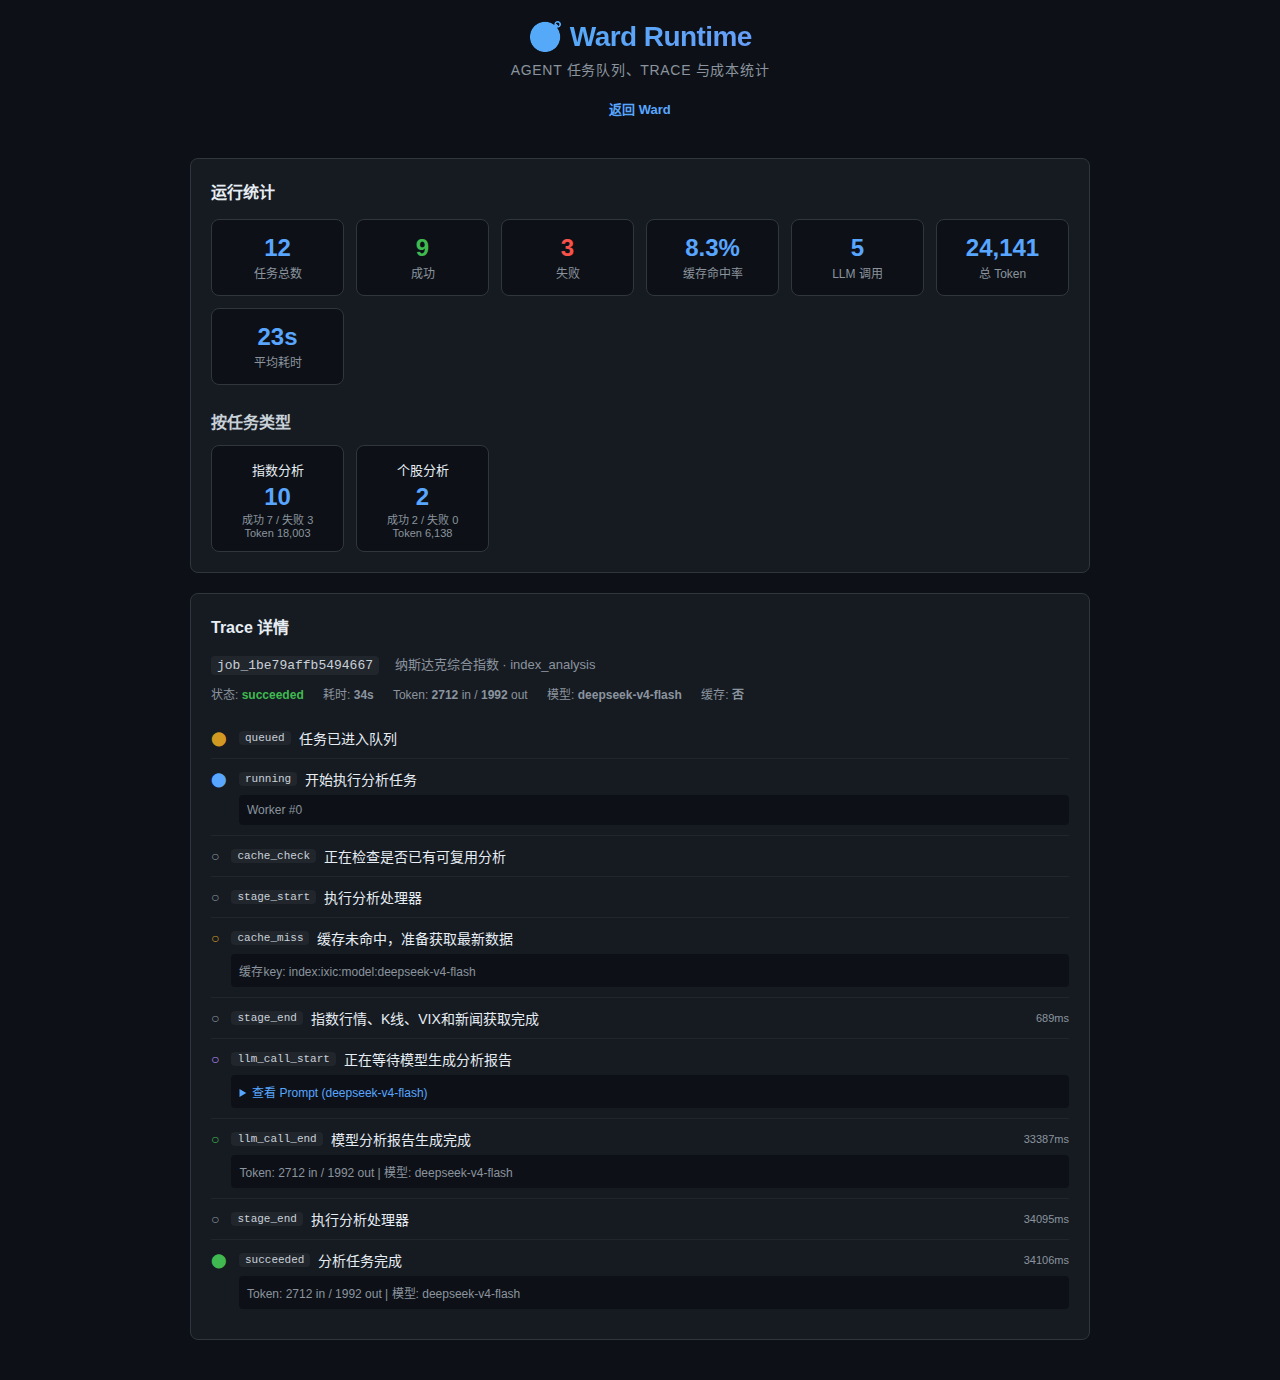
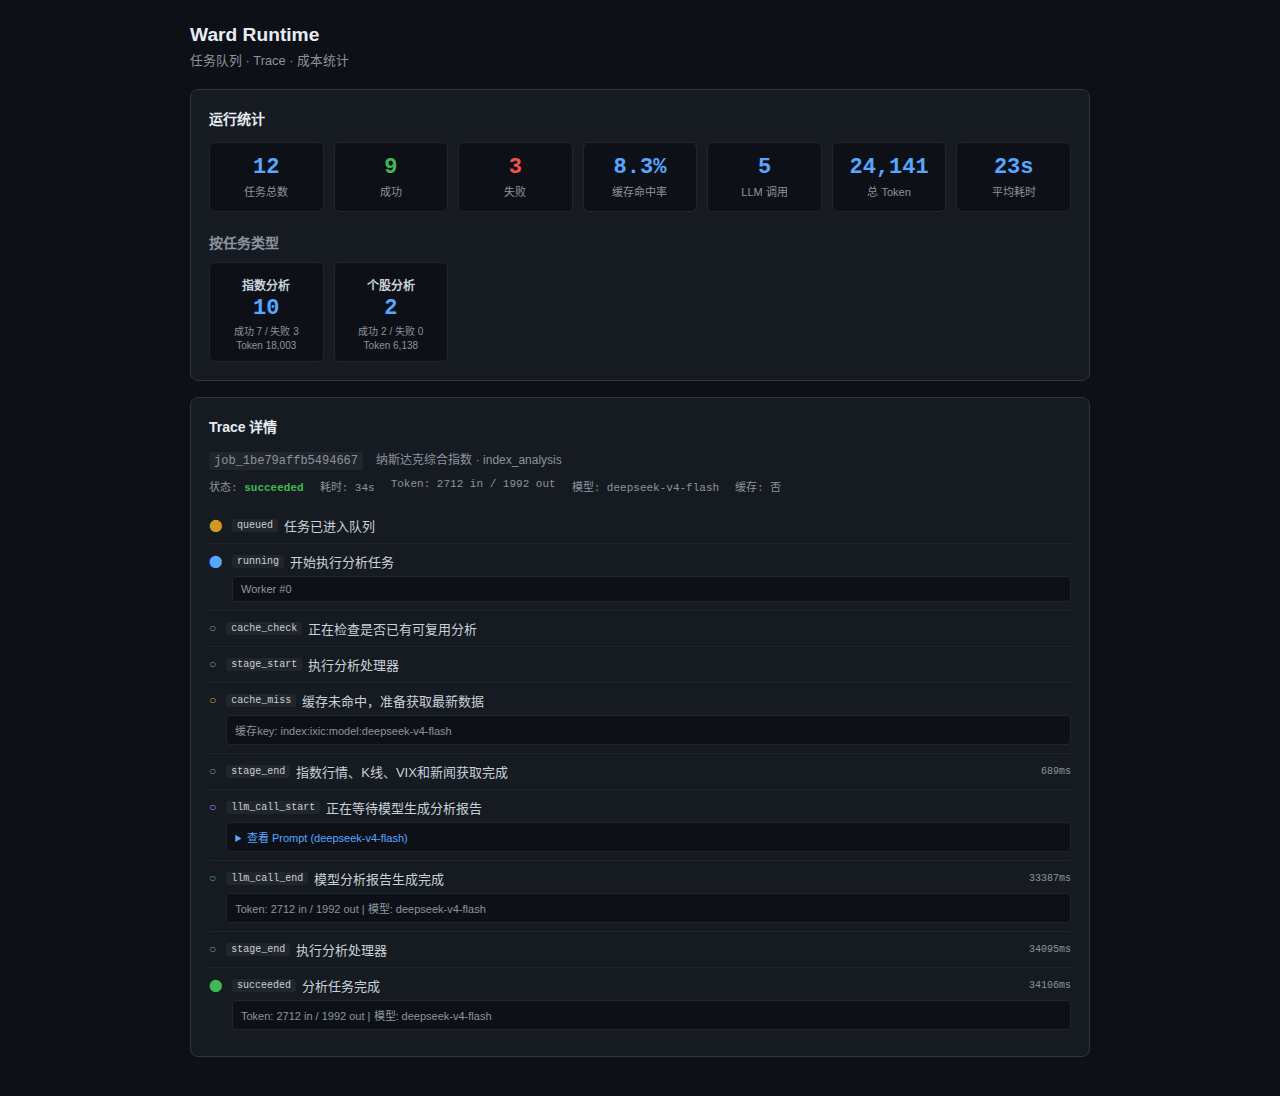
fix: 更新文章标题

diff --git a/index.html b/index.html
@@ -13,7 +13,7 @@
     <noscript><link rel="stylesheet" href="https://fonts.googleapis.com/css2?family=ZCOOL+KuaiLe&display=swap"></noscript>
 
     <link rel="stylesheet" href="style.css?v=0c1817b2">
-    <script>window.__POSTS_VERSION__ = '8814daa3';</script>
+    <script>window.__POSTS_VERSION__ = 'b13365dd';</script>
 </head>
 <body>
     <header class="header">